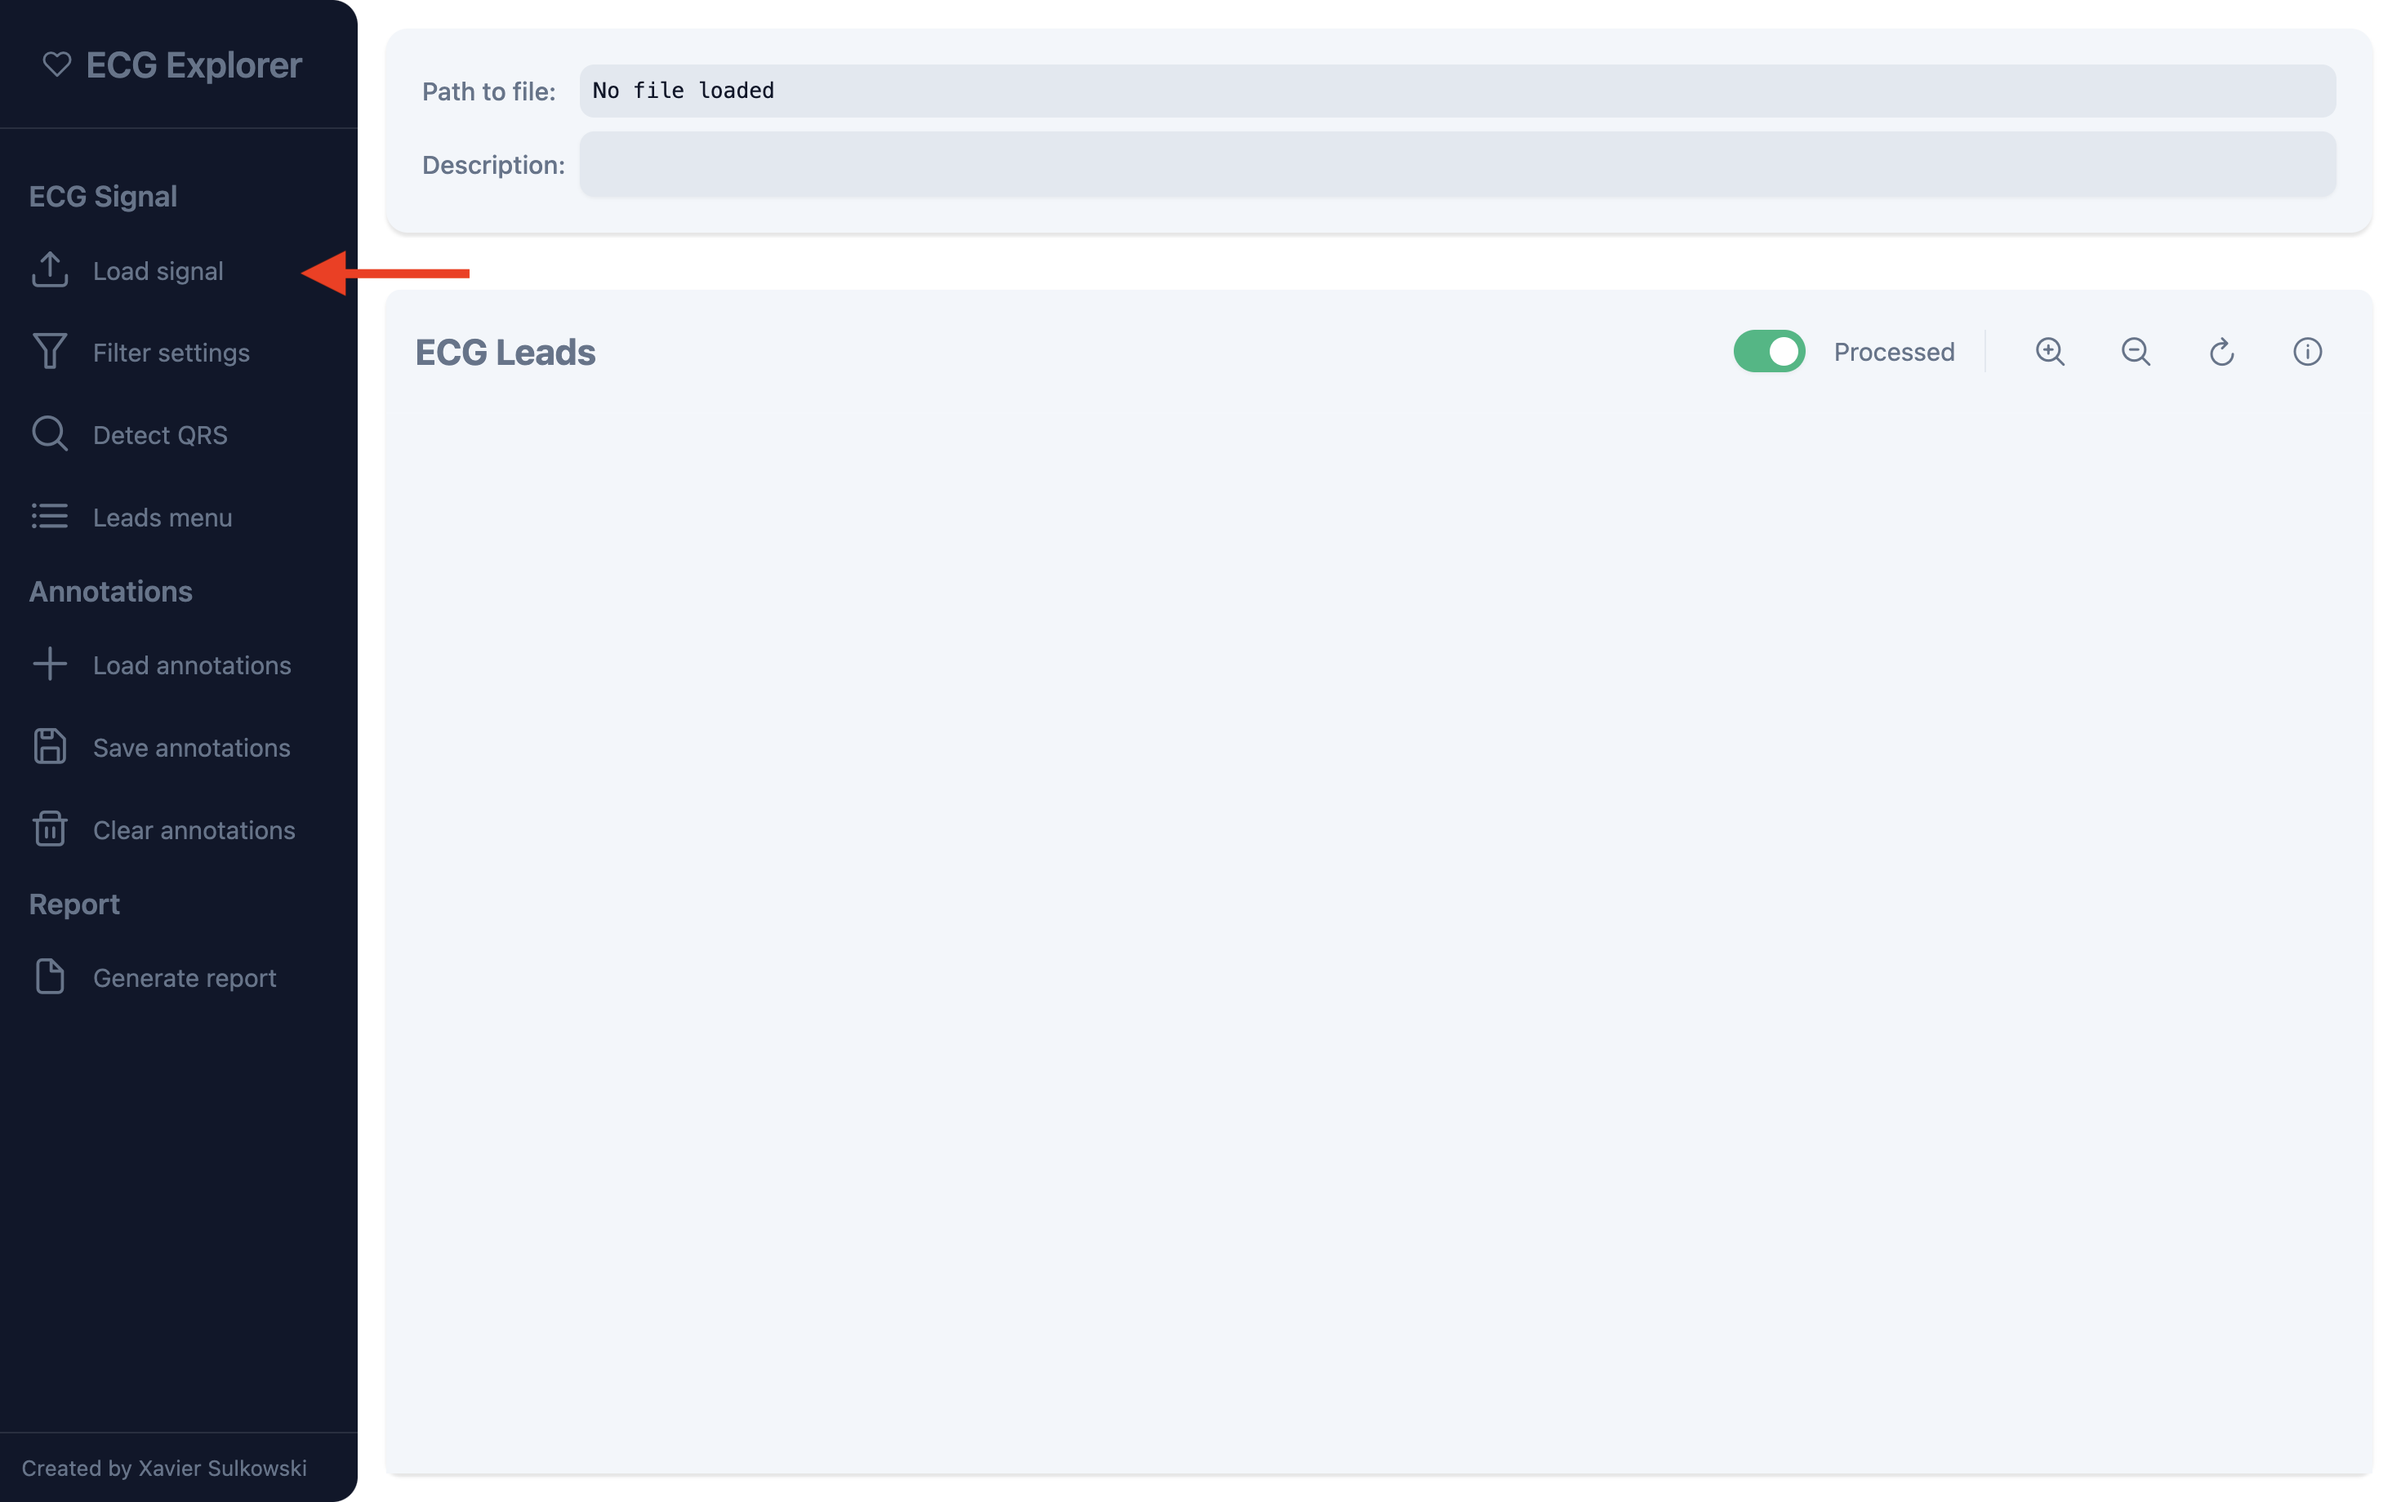
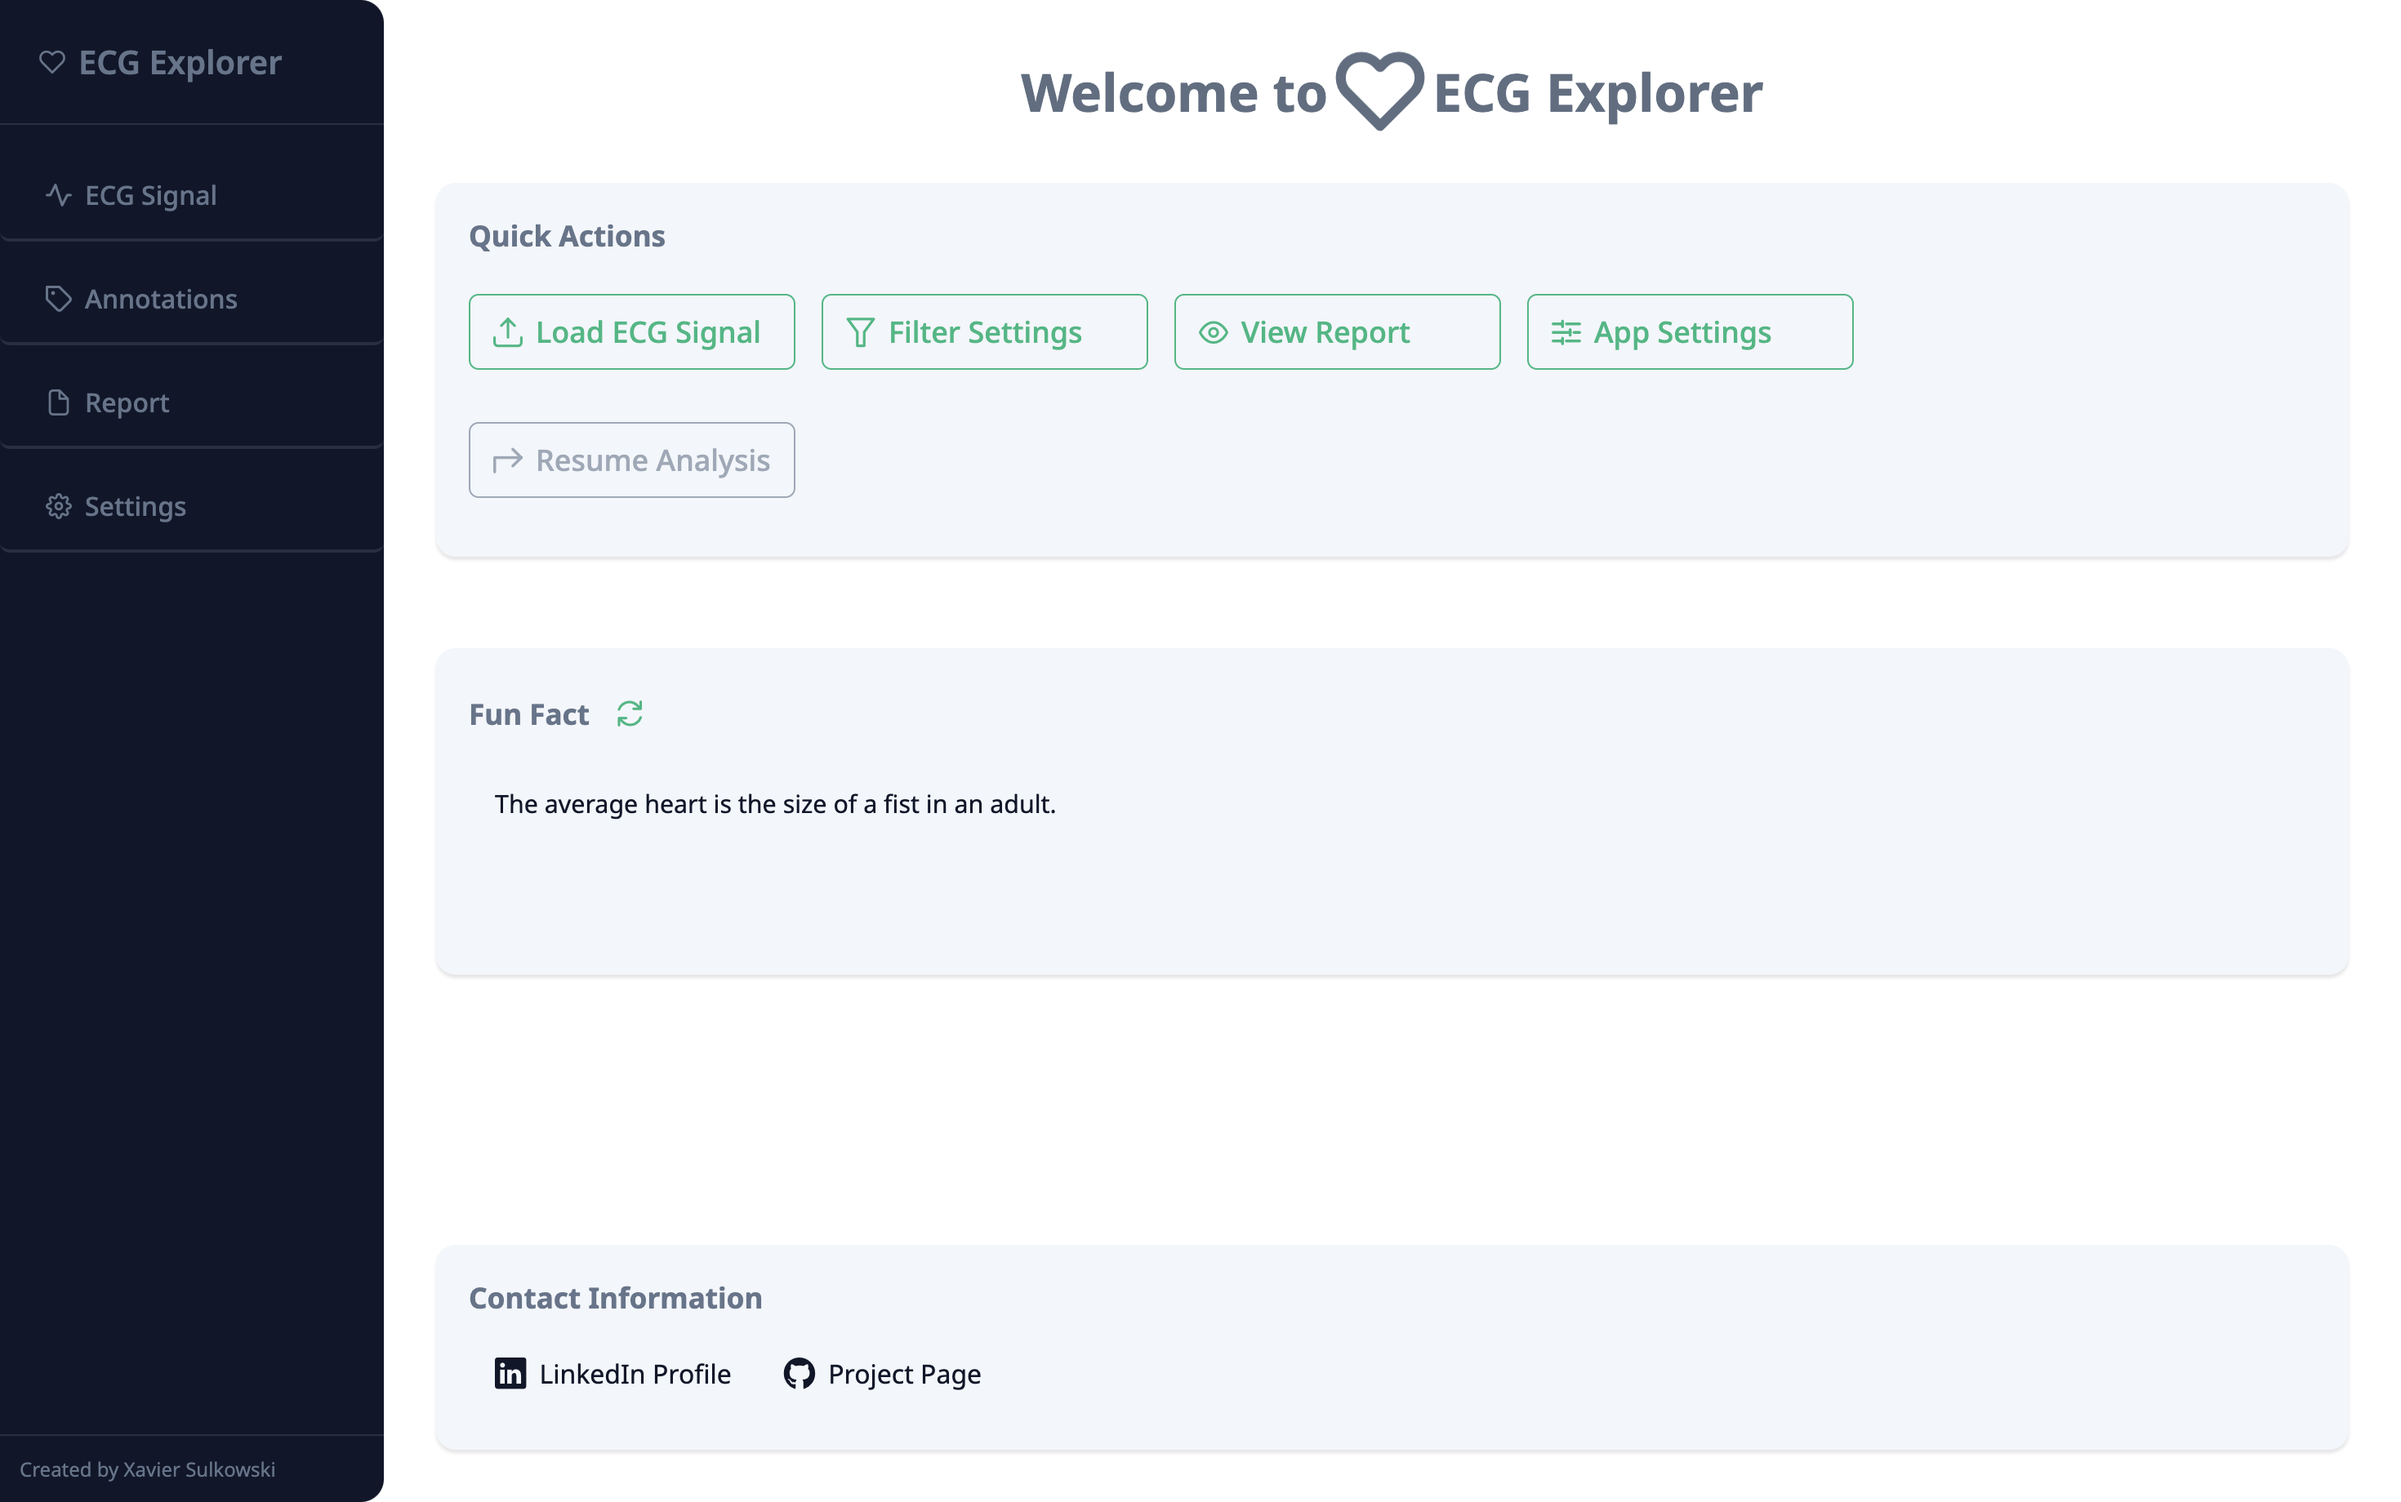
1.1.0

diff --git a/README.md b/README.md
@@ -1,8 +1,22 @@
 # ECG Explorer
 
+**ECG Explorer** is an application designed for analyzing and visualizing electrocardiogram (ECG) data. Built with Electron, Vue, and TypeScript for the frontend, Python for the backend (FastAPI) and  for data processing. 
 
-The primary goal of **ECG Explorer** is to provide an intuitive and efficient platform for ECG data analysis. The application supports various ECG file formats, incorporates advanced signal processing techniques, and facilitates annotation and reporting of ECG data.
+It provides healthcare professionals and researchers with tools to:
+- load
+- process
+- visualize ECG signals
+- manage annotations
+- and generate reports
 
+The application is still under development, and we welcome suggestions for improvement.
+
+It handles all data locally to **ensure privacy and security**.
+
+
+## Goal of the Application
+
+The primary goal of **ECG Explorer** is to provide an intuitive and efficient platform for ECG data analysis. The application supports various ECG file formats. It incorporates advanced signal processing techniques.  I also facilitates annotation and reporting of ECG data.
 
 ## Application Functionalities
 
@@ -20,70 +34,176 @@ The frontend of **ECG Explorer** is designed to deliver a seamless and interacti
 
 **ECG Explorer** follows these key steps for data processing:
 
-1. **Signal Acquisition**: Load ECG data from supported file formats (.dcm [DICOM] and .xml [GE XML]).
-2. **Preprocessing**: Apply filters to remove noise and artifacts, improving signal quality.
-3. **QRS Detection**: Detect QRS complexes and R-peaks using the Pan-Tompkins algorithm (optional).
-4. **Annotation Management**: Manage annotations for detailed analysis and documentation.
-5. **Report Generation**: Compile analysis results into comprehensive reports (currently QRS areas and lengths).
+1. **Signal Acquisition**: Load ECG data from supported file formats (.dcm [DICOM] and .xml [GE XML])
+2. **Preprocessing**: Apply filters to remove noise and artifacts, improving signal quality
+3. **QRS Detection**: Detect QRS complexes and R-peaks using the Pan-Tompkins algorithm (optional)
+4. **Annotation Management**: Manage annotations for detailed analysis and documentation
+5. **Report Generation**: Compile analysis results into comprehensive reports (currently QRS areas and lengths)
 
 
-## For Users
+## Installation
 
-### Installation
-
-1. Install the application from the provided `.exe` file.
-2. Open the application. The main window includes a menu bar on the left with all available options.
+1. Install the application from the provided `.exe` file
+2. Open the application
     <br />
     <br />
    ![Main Window](./screenshots/main_view.png)
     <br />
     <br />
-
-### Options
-
-#### 1. **ECG Signal**
-- **Load Signal**: Load ECG data from supported formats (.dcm and .xml).
-    - After selecting a file, the application displays the signal in a chart. 
-    - Additional options include switching between raw and processed signals, zooming, and resetting the view.
-    <br />
-    <br />
-    ![Zoom Options](./screenshots/zoom_options.png)
-    <br />
-    <br />
-
-- **Filter Settings**: Configure filters to adjust the signal.
-    - Available settings include:
-        - **Filtering Method**: Bandpass or lowpass filtering.
-        - **Lowcut/Highcut Frequencies**: Set frequency ranges for filtering.
-        - **Filter Order**: Adjust filter precision (higher order improves separation).
-        <br />
-        <br />
-        ![Filter Settings](./screenshots/filter_settings.png)
-        <br />
-        <br />
-
-    > **Note**: Filtering alters signal morphology.
+3. On the home screen you can find: 
+   - **"Quick Actions"**, because we love keep things handy 
+   - **"Fun Fact"**, because learning is never enough
+   - **"Contact Information"**, if you'd like to reach out to the author :)
+   - **Sidebar Menu** on the left hand side, with all the functionalities
 
 <br />
 
-- **Detect QRS**: Use the Pan-Tompkins algorithm to detect QRS complexes.
+> **Note:** The sidebar menu is a panel menu, each element can be expanded.
     <br />
     <br />
-    ![QRS Detection](./screenshots/detect_qrs.png)
+   ![Expanded Menu](./screenshots/expanded_view.png)
     <br />
     <br />
-- **Lead Menu**: Select specific leads for display.
-    <br />
-    <br />
-    ![Lead Menu](./screenshots/leads_menu.png)
-    <br />
-#### 2. **Annotations**
-- **Load Annotations**: Import annotation files.
-- **Save Annotations**: Export annotations to a file.
-- **Clear Annotations**: Remove all annotations from the charts.
 
-#### 3. **Report**
-- **Generate Report**: Create a report summarizing QRS data and other metrics.
+---
+
+## Functionalities 
+
+All available in the sidebar menu.
+
+### 1. **ECG Signal section** 
+
+#### Load Signal
+
+Load ECG data from supported formats (.dcm and .xml).
+
+After selecting a file, the application displays a new window with the ECG data on the chart. 
+<br />
+<br />
+![Chart View](./screenshots/chart_view.png)
+<br />
+<br />
+
+On the screen there are two cards: 
+1. File Info card with path to file & file description 
+2. ECG data chart (ECG Leads)
+   - it displays each lead individually as a separate row
+   - it the right-top corner there are chart controls: 
+      <br />
+      <br />
+      ![Zoom Options](./screenshots/zoom_options.png)
+      <br />
+      <br />
+       - toggle-switch to display processed/raw signal
+       - zoom-in or zoom-out all charts at once 
+       - reset view 
+       - show info
+
+
+#### Leads Menu 
+
+Select leads to display.
+<br />
+<br />
+![Lead Menu](./screenshots/leads_menu.png)
+<br />
+<br />
+
+#### Detect QRS 
+
+Use the Pan-Tompkins algorithm to detect QRS complexes.
+<br />
+<br />
+![detect_qrs.png](./screenshots/detect_qrs.png)
+<br />
+<br />
+
+---
+
+### 2. **Annotations**
+
+Items in this panel allow to manipulate ECG data annotations.
+
+#### Save annotations 
+Export annotations to a file, in case you want to resume our research later
+
+#### Load annotations 
+Import annotation files 
+
+#### Clear annotations
+Remove all annotations from the charts
+
+---
+
+### 3. **Report**
+
+#### Generate report 
+Create a report summarizing QRS data and other metrics
+
+#### View report 
+Allow to browse created report. Currently, it only allows to browse generated CSV file. More to come :)   
+
+![View Report](./screenshots/view_report.png)
+
+
+> **Note:** in the left top corner, there is a "back arrow" that navigates back to the previous page  
+
+---
+
+### 4. Settings
+
+> **Note:** all settings are persisted, so next time you open the application, you don't need to change anything.
+
+#### Filter settings 
+
+Configure filters to adjust the signal. 
+
+Available settings include:
+- **Filtering Method**: Bandpass or lowpass filtering.
+- **Lowcut/Highcut Frequencies**: Set frequency ranges for filtering.
+- **Filter Order**: Adjust filter precision (higher order improves separation).
+<br />
+<br />
+![Filter Settings](./screenshots/filter_settings.png)
+<br />
+<br />
+
+>**Note**: Filtering alters signal morphology.
+
+<br />
+
+#### App settings 
+
+Changes app settings. 
+
+For now:
+- **Collapsible menu**: controls if the side menu should collapse when it's not hovered. False by default
+- **Auto-open report after generation**: controls if ECG Explorer should open a report immediately after it's generated. True by default
+
+![App Settings](./screenshots/app_settings.png)
+
+--- 
+
+### Quick Actions
+
+Let's go back to the main screen. 
+
+> You can always do that by clicking on the "<3 ECG Explorer" at the top of the side menu.
+
+There are buttons that we already know:
+- Load ECG Signal 
+- Filter Settings 
+- View Report 
+- App Settings
+
+<br />
+And one we don't know yet - **Resume Analysis**.
+
+If you clicked “<3 ECG Explorer” at the top of the side menu during analysis, you can resume the analysis. All annotations will be persisted.   
+
+![Quick Actions](./screenshots/quick_actions.png)
+
+---
 
 ### How to Annotate on Signal
 1. **Select Lead**: Choose the lead(s) to annotate.
@@ -95,11 +215,10 @@ The frontend of **ECG Explorer** is designed to deliver a seamless and interacti
     <br />
     <br />
 4. **Double-Click**: Select an annotation for editing (annotation turns green).
-    - `Ctrl + D`: Delete the annotation.
-    - `Ctrl + P`: Copy the annotation to other leads.
-    <br />
-    
-    ![Click Around Annotation](./screenshots/click_around.gif)
-    <br />
-    <br />
-
+   - `Ctrl + P`: Copy the annotation to other leads.
+   - `Ctrl + D`: Delete the annotation.
+   <br />
+   <br />
+   ![Click Around](./screenshots/click_around.gif)
+   <br />
+   <br />
